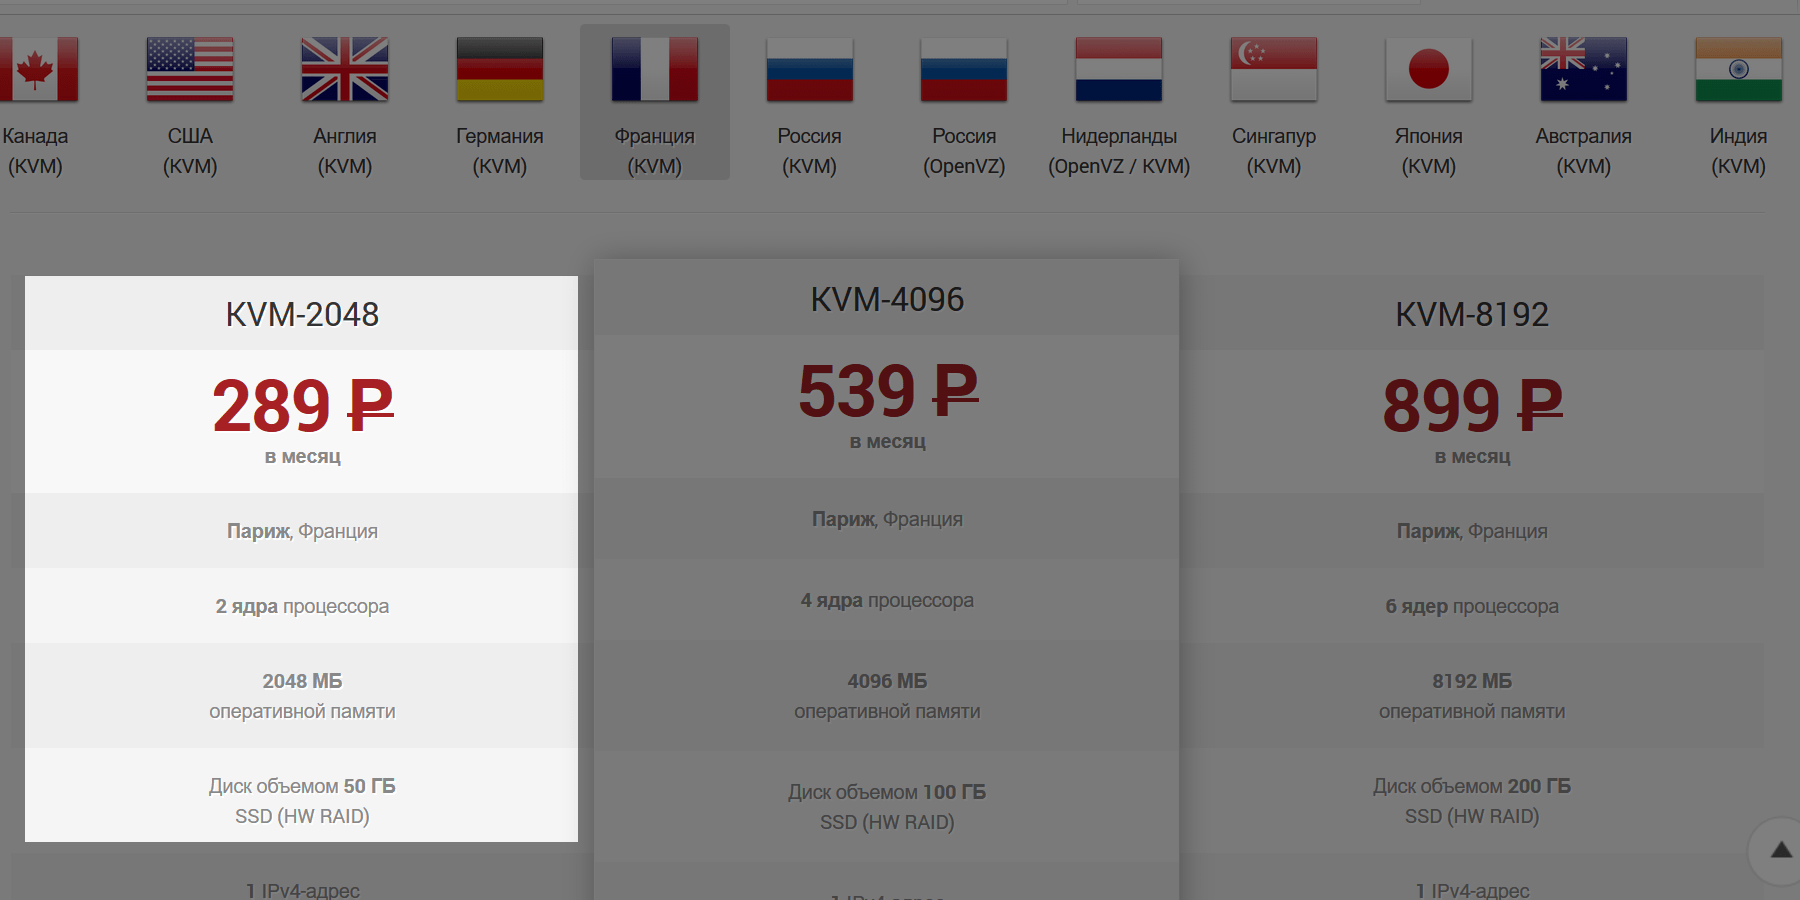
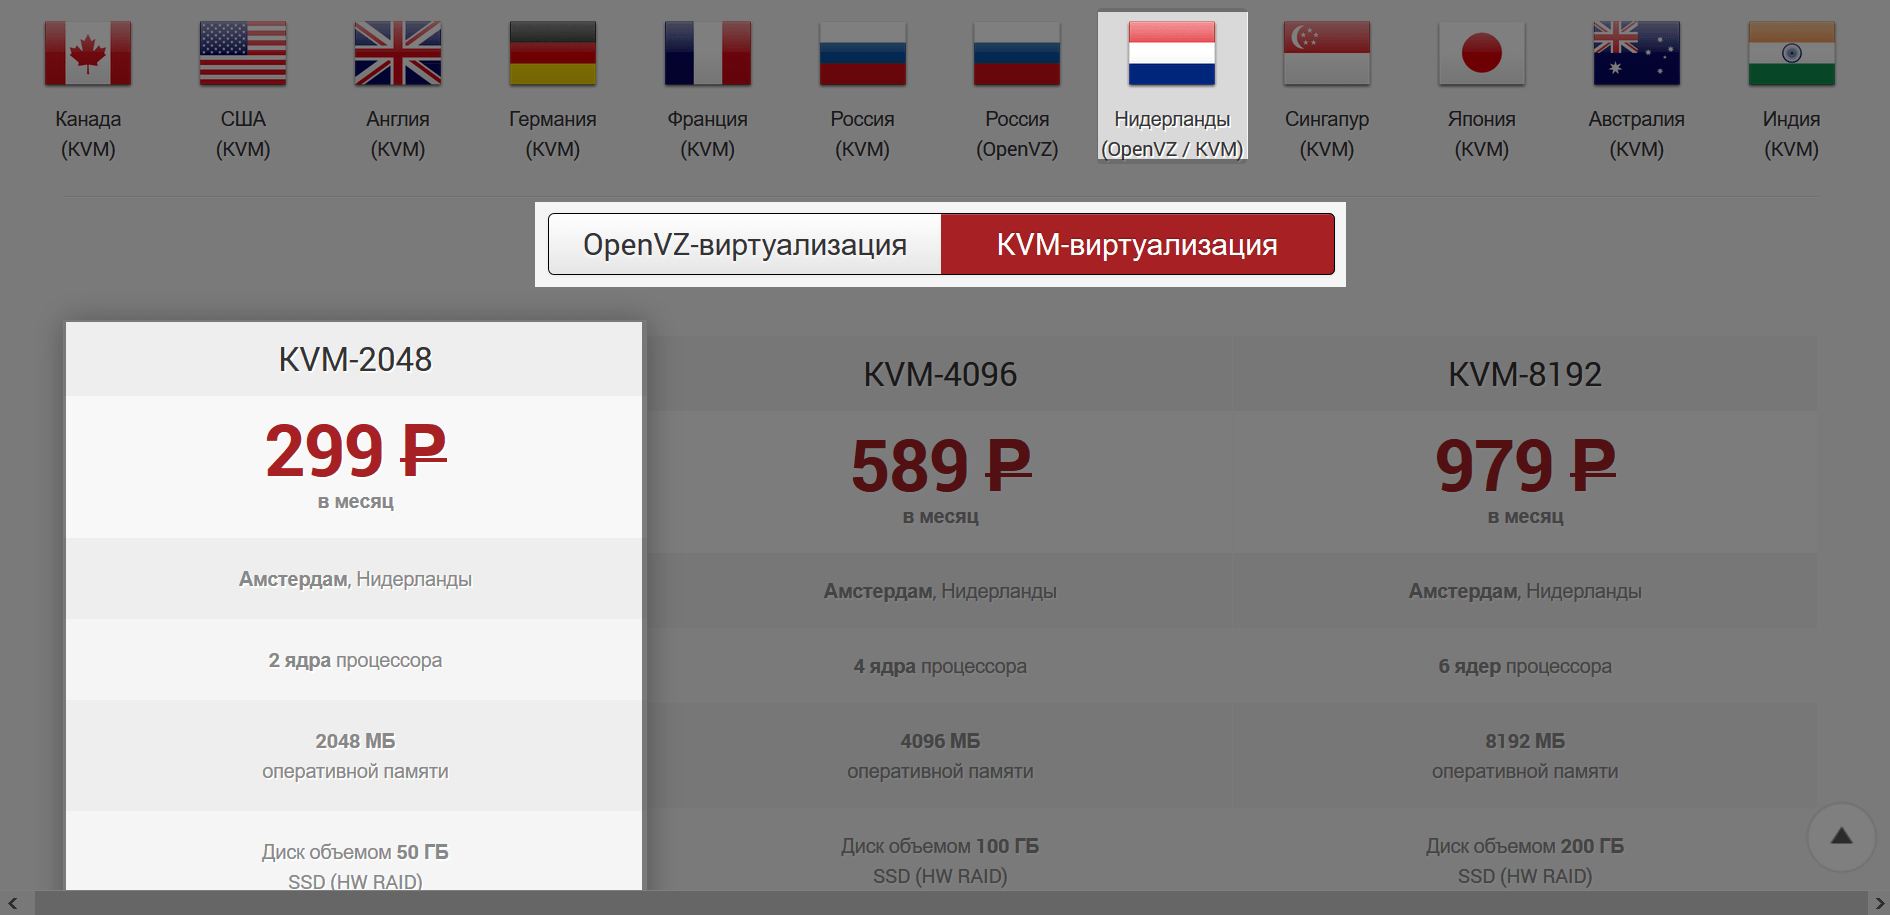
Change info myvps

diff --git a/article/gde-kupit-server.html b/article/gde-kupit-server.html
@@ -165,7 +165,7 @@
                     <div class="seperator"></div>
                 </div>
                 <p class="text-justify">
-                    Решение, которое предлагает MyVPS является самым мощным. За 289 руб (4.7$) Вы получите сервер во Франции с 2 процессорами, 2 ГБ оперативной памяти и 50 ГБ диск на SSD накопителе. Данный сервер заложит отличный фундамент для Вашего сайта на довольно долгое время, пока Ваш сайт не окрепнет и не получит доверие у поисковых систем. Помимо IPv4, Вы так же получите и IPv6 адрес для сайта, а так как CinemaPress ACMS отлично работает с «протоколом будущего», сможете его использовать.
+                    Решение, которое предлагает MyVPS является самым мощным. За 299 руб (4.9$) Вы получите сервер в Нидерландах (или можете взять аналогично во Франции) с 2 процессорами, 2 ГБ оперативной памяти и 50 ГБ диск на SSD накопителе. Данный сервер заложит отличный фундамент для Вашего сайта на довольно долгое время, пока Ваш сайт не окрепнет и не получит доверие у поисковых систем. Помимо IPv4, Вы так же получите и IPv6 адрес для сайта, а так как CinemaPress ACMS отлично работает с «протоколом будущего», сможете его использовать.
                 </p>
             </div>
             <div class="col-md-5 col-sm-6 col-xs-12">
@@ -249,7 +249,7 @@
                     <div class="seperator"></div>
                 </div>
                 <p class="text-justify">
-                    VPS сервер в Нидерландах с DDoS защитой (до 20Gbit/s) от Inferno, отличное решение для сайтов, которые готовы к любым проделкам «недоброжелателей». Сможете не беспокоиться, что сайт внезапно станет недоступен в следствии «аномальной» нагрузки или других причин. Цены довольно высокие, однако за спокойствие нужно платить, к тому же есть прием BitCoin. На начальном этапе жизни сайта, можно взять с 512 Мб оперативной памяти, и если заметите, что сайт стал довольно медленным, сможете за считанные секунды повысить тарифный план. Для того, чтобы убедиться в качестве VPS сервера, Вы можете заказать тестовый период на срок до 7 дней. Просто создайте тикет в отделе «Биллинг» с таким содержанием: <code>Прошу предоставить Мне тестовый период для создания сайта ВашДомен.com на CinemaPress ACMS. Мой номер для СМС проверки: +7 495 123-45-67</code>
+                    VPS сервер в Нидерландах с DDoS защитой (до 20Gbit/s) от Inferno, отличное решение для сайтов, которые готовы к любым проделкам «недоброжелателей». Сможете не беспокоиться, что сайт внезапно станет недоступен в следствии «аномальной» нагрузки или других причин. Цены довольно высокие, однако за спокойствие нужно платить, к тому же есть прием BitCoin. На начальном этапе жизни сайта, можно взять с 512 Мб оперативной памяти, и если заметите, что сайт стал довольно медленным, сможете за считанные секунды повысить тарифный план. Для того, чтобы убедиться в качестве VPS сервера, Вы можете заказать тестовый период на срок до 7 дней (для действующих сайтов). Просто создайте тикет в отделе «Биллинг» с таким содержанием: <code>Прошу предоставить Мне тестовый период для создания сайта ВашДомен.com на CinemaPress ACMS. Мой номер для СМС проверки: +7 495 123-45-67</code>
                 </p>
             </div>
             <div class="col-md-5 col-sm-6 col-xs-12">
@@ -338,7 +338,7 @@
                 </div>
                 <div class="price">
                     <span class="pricing-currency">$</span>
-                    <span class="pricing-price">4.7</span>
+                    <span class="pricing-price">4.9</span>
                 </div>
                 <ul>
                     <li>
@@ -346,7 +346,7 @@
                             <i class="fa fa-globe"></i>
                             Расположение:
                         </span>
-                        Франция
+                        Нидерланды
                     </li>
                     <li>
                         <span class="hidden-md hidden-lg">
